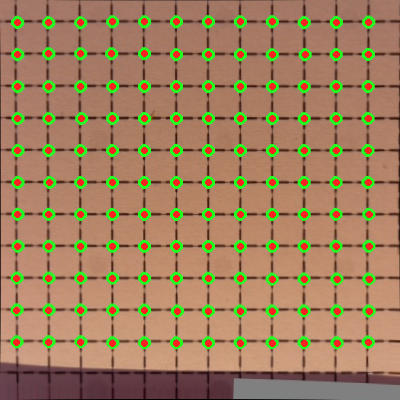
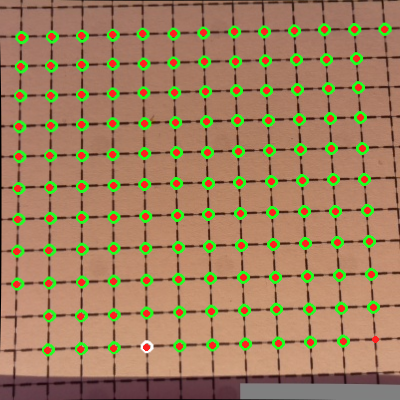
matchGrid

diff --git a/calibrate.cpp b/calibrate.cpp
@@ -115,8 +115,6 @@ typedef struct GridMatcher {
     vector<Point2f> imagePts;		// input image 
 	vector<Point2f> calibrationPts;	// image calibration points (post-perspective)	
     vector<Point3f> objectPts;		// 
-    Point3f objTotals;
-    Point2f imgTotals;
     Rect imgRect;
     const ComparePoint2f cmpYX;
     set<Point2f,ComparePoint2f> imgSet;
@@ -416,8 +414,6 @@ typedef struct GridMatcher {
         }
         objectPts.push_back(ptObj);
         imagePts.push_back(ptImg);
-        objTotals += ptObj;
-        imgTotals += ptImg;
         imgSet.insert(ptImg);
         return true;
     }
@@ -680,16 +676,6 @@ typedef struct GridMatcher {
 
     int size() {
         return objectPts.size();
-    }
-
-    Point2f getImageCentroid() {
-        int n = objectPts.size();
-        return Point2f(imgTotals.x/n, imgTotals.y/n);
-    }
-
-    Point3f getObjectCentroid() {
-        int n = objectPts.size();
-        return Point3f(objTotals.x/n, objTotals.y/n, objTotals.z/n);
     }
 
     void subImageCornersFactory(Point2f scale) {
@@ -1196,14 +1182,13 @@ typedef struct GridMatcher {
 			if (rvecs.size() > 0) {
 				gridnessOut = Point2f();
 				for (int i=0; i < rvecs.size(); i++) {
-					vector<Point2f> projectedPts;
-					projectPoints(objectPts, rvecs[i], tvecs[i], cameraMatrix, distCoeffs, projectedPts);
 					if (op == CAL_PERSPECTIVE) {
-						// NOTE: we are reversing the order of perspective and undistort
 						vector<Point2f> perspectivePts;
-						perspectiveTransform(projectedPts, perspectivePts, perspective);
+						perspectiveTransform(imagePts, perspectivePts, perspective);
 						gridnessOut += calcGridness(perspectivePts, errMsg);
 					} else {
+						vector<Point2f> projectedPts;
+						projectPoints(objectPts, rvecs[i], tvecs[i], cameraMatrix, distCoeffs, projectedPts);
 						gridnessOut += calcGridness(projectedPts, errMsg);
 					}
 				}
@@ -1211,14 +1196,12 @@ typedef struct GridMatcher {
 				gridnessOut.y = gridnessOut.y/rvecs.size();
 			}
 
-            Point3f objCentroid = getObjectCentroid();
-            Point2f imgCentroid = getImageCentroid();
             for (int i=0; i < size(); i++) {
                 json_t *pRect = json_object();
                 json_object_set(pRect, "x", json_real(imagePts[i].x));
                 json_object_set(pRect, "y", json_real(imagePts[i].y));
-                json_object_set(pRect, "objX", json_real(objSep.x*(objectPts[i].x-objCentroid.x)));
-                json_object_set(pRect, "objY", json_real(objSep.y*(objectPts[i].y-objCentroid.y)));
+                json_object_set(pRect, "objX", json_real(objSep.x*(objectPts[i].x)));
+                json_object_set(pRect, "objY", json_real(objSep.y*(objectPts[i].y)));
                 json_array_append(pRects, pRect);
                 set<Point2f,ComparePoint2f>::iterator it = subImgSet.find(calibrationPts[i]);
                 if (it == subImgSet.end()) { // color marks points not used in calibration
@@ -1388,26 +1371,8 @@ bool Pipeline::apply_undistort(const char *pName, json_t *pStage, json_t *pStage
 
     if (errMsg.empty()) {
         cm = jo_vectord(pCalibrate, "cameraMatrix", cmDefault, model.argMap);
-        pm = jo_vectord(pCalibrate, "perspective", cmDefault, model.argMap);
         dc = jo_vectord(pCalibrate, "distCoeffs", dcDefault, model.argMap);
 
-		if (pm.size() == 9) {
-            Mat perspective = Mat(3, 3, CV_64F);
-            for (int i=0; i<pm.size(); i++) {
-                perspective.at<double>(i/3, i%3) = pm[i];
-            }
-			Mat dst;
-            undistort(model.image, dst, perspective, Mat());
-			model.image = dst;
-        } else if (pm.size() == 0) {
-			// no perspective
-		} else {
-			char buf[255];
-			snprintf(buf, sizeof(buf), "apply_undistort() invalid perspective matrix. Elements expected:9 actual:%d",
-				(int) pm.size());
-			LOGERROR1("%s", buf);
-			errMsg = buf;
-		}
         if (cm.size() == 9) {
             cameraMatrix = Mat(3, 3, CV_64F);
             for (int i=0; i<cm.size(); i++) {

diff --git a/Pipeline.cpp b/Pipeline.cpp
@@ -182,22 +182,47 @@ bool Pipeline::apply_warpAffine(json_t *pStage, json_t *pStageModel, Model &mode
     return stageOK("apply_warpAffine(%s) %s", errMsg, pStage, pStageModel);
 }
 
-bool Pipeline::apply_warpPerspective(json_t *pStage, json_t *pStageModel, Model &model) {
+bool Pipeline::apply_warpPerspective(const char *pName, json_t *pStage, json_t *pStageModel, Model &model) {
     validateImage(model.image);
-    const char *errMsg = NULL;
+	string errMsg;
 
     string  borderModeStr = jo_string(pStage, "borderMode", "BORDER_REPLICATE", model.argMap);
     int borderMode;
 
-    float default_vec_f[] = {1,0,0,0,1,0,0,0,1};
-    vector<float> default_vec(default_vec_f, default_vec_f + sizeof(default_vec_f) / sizeof(float) );
-    vector<float> vec = jo_vectorf(pStage, "matrix", default_vec, model.argMap);
-    Mat matrix = Mat::zeros(3,3,CV_32F);
-    for (size_t i = 0; i < 3; i++)
-        for (size_t j = 0; j < 3; j++)
-            matrix.at<float>(i,j) = vec[i*3+j];
+    string modelName = jo_string(pStage, "model", pName, model.argMap);
+    vector<double> pm;
+    json_t *pCalibrate;
+    json_t *pCalibrateModel = json_object_get(model.getJson(false), modelName.c_str());
+    if (json_is_object(pCalibrateModel)) {
+        pCalibrate = json_object_get(pCalibrateModel, "calibrate");
+        if (!json_is_object(pCalibrate)) {
+            errMsg = "Expected \"calibrate\" JSON object in stage \"";
+            errMsg += modelName;
+            errMsg += "\"";
+        }
+    } else {
+        pCalibrate = pStage;
+    }
+	pm = jo_vectord(pCalibrate, "perspective", vector<double>(), model.argMap);
+	if (pm.size() == 0) {
+		double default_vec_d[] = {1,0,0,0,1,0,0,0,1};
+		vector<double> default_vecd(default_vec_d, default_vec_d + sizeof(default_vec_d) / sizeof(double) );
+		pm = jo_vectord(pCalibrate, "matrix", default_vecd, model.argMap);
+	}
+	Mat matrix = Mat::zeros(3, 3, CV_64F);
+	if (pm.size() == 9) {
+		for (int i=0; i<pm.size(); i++) {
+			matrix.at<double>(i/3, i%3) = pm[i];
+		}
+	} else {
+		char buf[255];
+		snprintf(buf, sizeof(buf), "apply_warpPerspective() invalid perspective matrix. Elements expected:9 actual:%d",
+			(int) pm.size());
+		LOGERROR1("%s", buf);
+		errMsg = buf;
+	}
 
-    if (!errMsg) {
+    if (errMsg.empty()) {
         if (borderModeStr.compare("BORDER_CONSTANT") == 0) {
             borderMode = BORDER_CONSTANT;
         } else if (borderModeStr.compare("BORDER_REPLICATE") == 0) {
@@ -217,13 +242,13 @@ bool Pipeline::apply_warpPerspective(json_t *pStage, json_t *pStageModel, Model 
 
     Scalar borderValue = jo_Scalar(pStage, "borderValue", Scalar::all(0), model.argMap);
 
-    if (!errMsg) {
+    if (errMsg.empty()) {
         Mat result = Mat::zeros(model.image.rows, model.image.cols, model.image.type());
         warpPerspective(model.image, result, matrix, result.size(), cv::INTER_LINEAR, borderMode, borderValue );
         model.image = result;
     }
 
-    return stageOK("apply_warpPerspective(%s) %s", errMsg, pStage, pStageModel);
+    return stageOK("apply_warpPerspective(%s) %s", errMsg.c_str(), pStage, pStageModel);
 }
 
 bool Pipeline::apply_putText(json_t *pStage, json_t *pStageModel, Model &model) {
@@ -1717,7 +1742,7 @@ const char * Pipeline::dispatch(const char *pName, const char *pOp, json_t *pSta
     } else if (strcmp(pOp, "warpRing")==0) {
         ok = apply_warpRing(pStage, pStageModel, model);
     } else if (strcmp(pOp, "warpPerspective")==0) {
-        ok = apply_warpPerspective(pStage, pStageModel, model);
+        ok = apply_warpPerspective(pName, pStage, pStageModel, model);
 
     } else if (strncmp(pOp, "nop", 3)==0) {
         LOGDEBUG("Skipping nop...");

diff --git a/FireSight.hpp b/FireSight.hpp
@@ -262,7 +262,7 @@ namespace firesight {
       bool apply_transparent(json_t *pStage, json_t *pStageModel, Model &model);
       bool apply_undistort(const char *pName, json_t *pStage, json_t *pStageModel, Model &model);
       bool apply_warpAffine(json_t *pStage, json_t *pStageModel, Model &model);
-      bool apply_warpPerspective(json_t *pStage, json_t *pStageModel, Model &model);
+      bool apply_warpPerspective(const char *pName, json_t *pStage, json_t *pStageModel, Model &model);
 
       const char * dispatch(const char *pName, const char *pOp, json_t *pStage, json_t *pStageModel, Model &model);
       void detectKeypoints(json_t *pStageModel, vector<vector<Point> > &regions);
